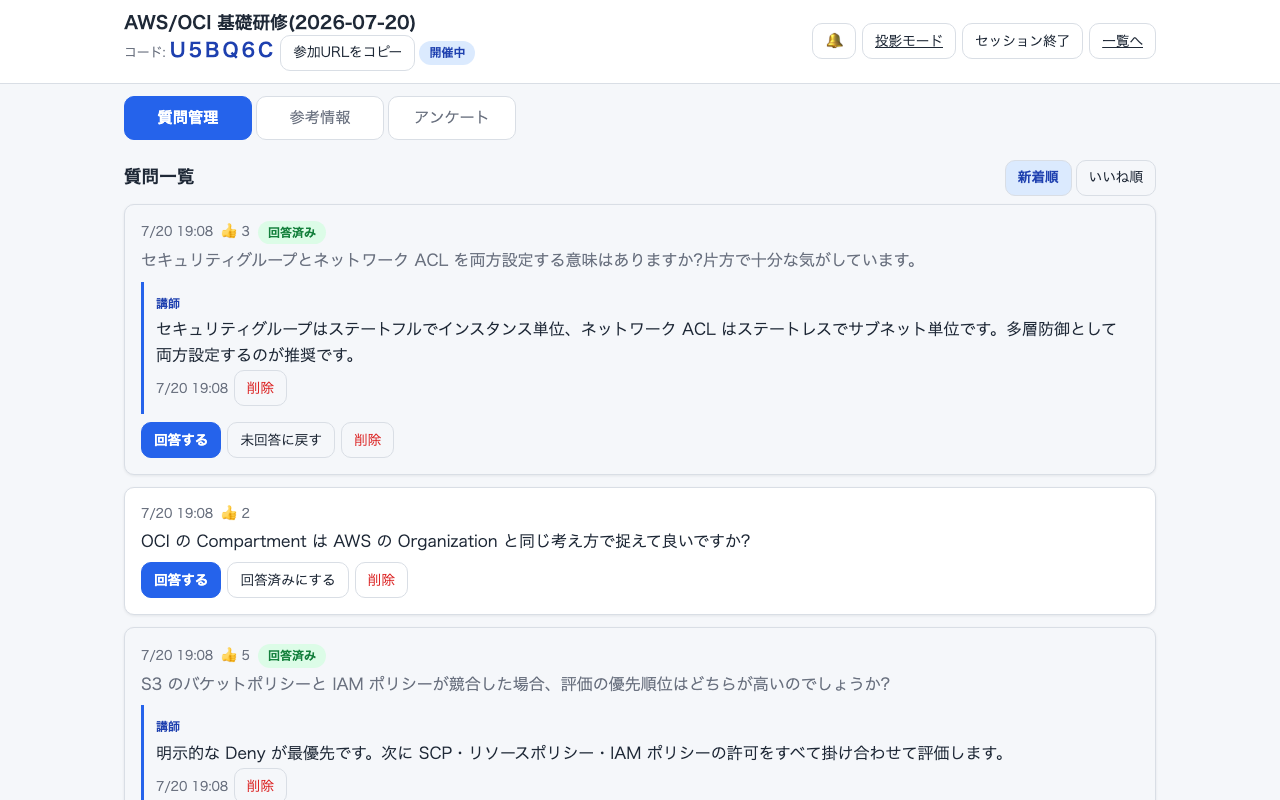
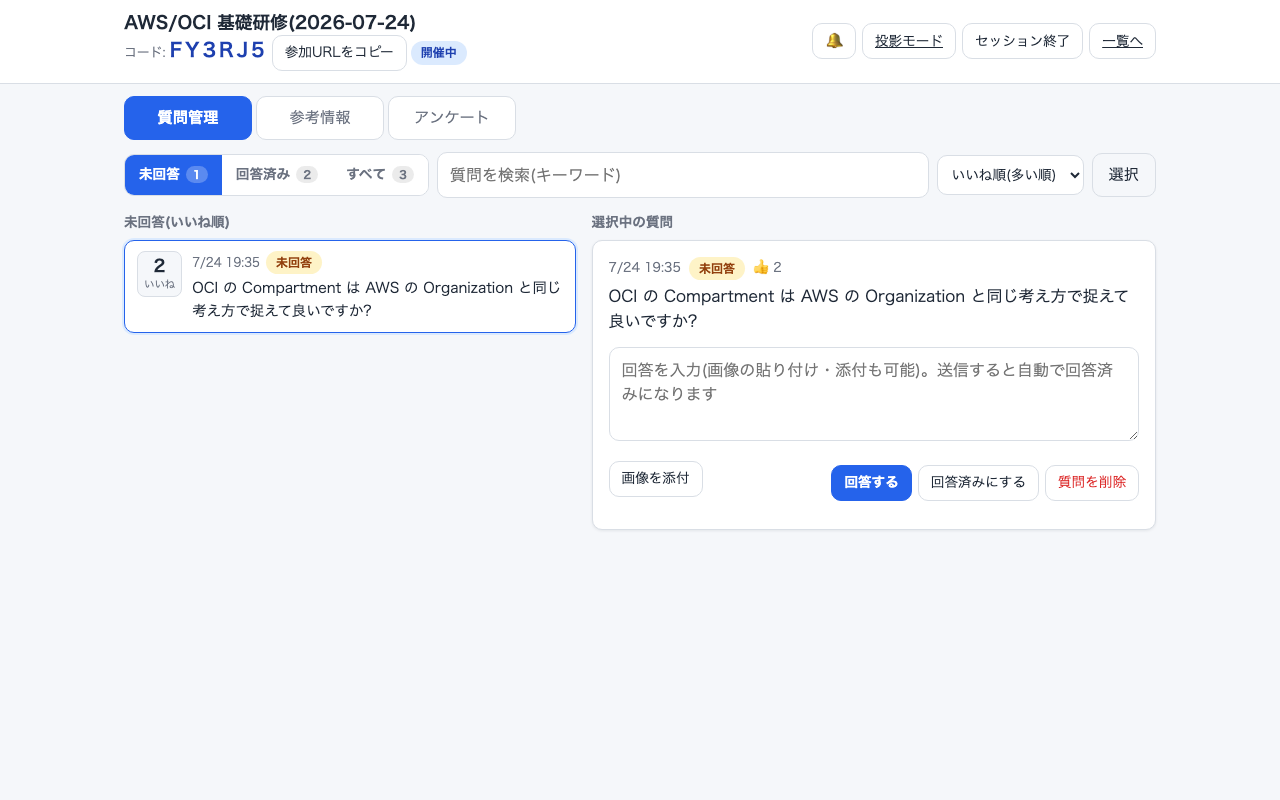
UI改善P8: スクリーンショットスクリプトを新 UI に追従し画像を再撮影
- admin ページの待機セレクタを .question-card → .qitem に変更し、
  左一覧の先頭を選択して 2 ペイン(右ペイン込み)を撮影するように
- docs/images を新 UI で再生成

Claude-Session: https://claude.ai/code/session_01Hb6xvPs6LgjFeAPowgWYcw

diff --git a/scripts/capture-screenshots.ts b/scripts/capture-screenshots.ts
@@ -187,9 +187,11 @@ async function main(): Promise<void> {
   await page.waitForSelector(".question-card");
   await savePng("participant-questions.png", await page.screenshot());
 
-  // 3. 講師: セッション管理画面
+  // 3. 講師: セッション管理画面(2 ペイン。左一覧の先頭を選択して右ペインも写す)
   await page.goto(`${BASE_URL}/admin/s/${session.id}`);
-  await page.waitForSelector(".question-card");
+  await page.waitForSelector(".qitem");
+  await page.click(".qitem");
+  await page.waitForSelector("#question-detail .question-body");
   await savePng("admin-session.png", await page.screenshot());
 
   // 4. 講師: 投影モード(既定は未回答のみ表示のため、回答済みも含めて全件見せる)
